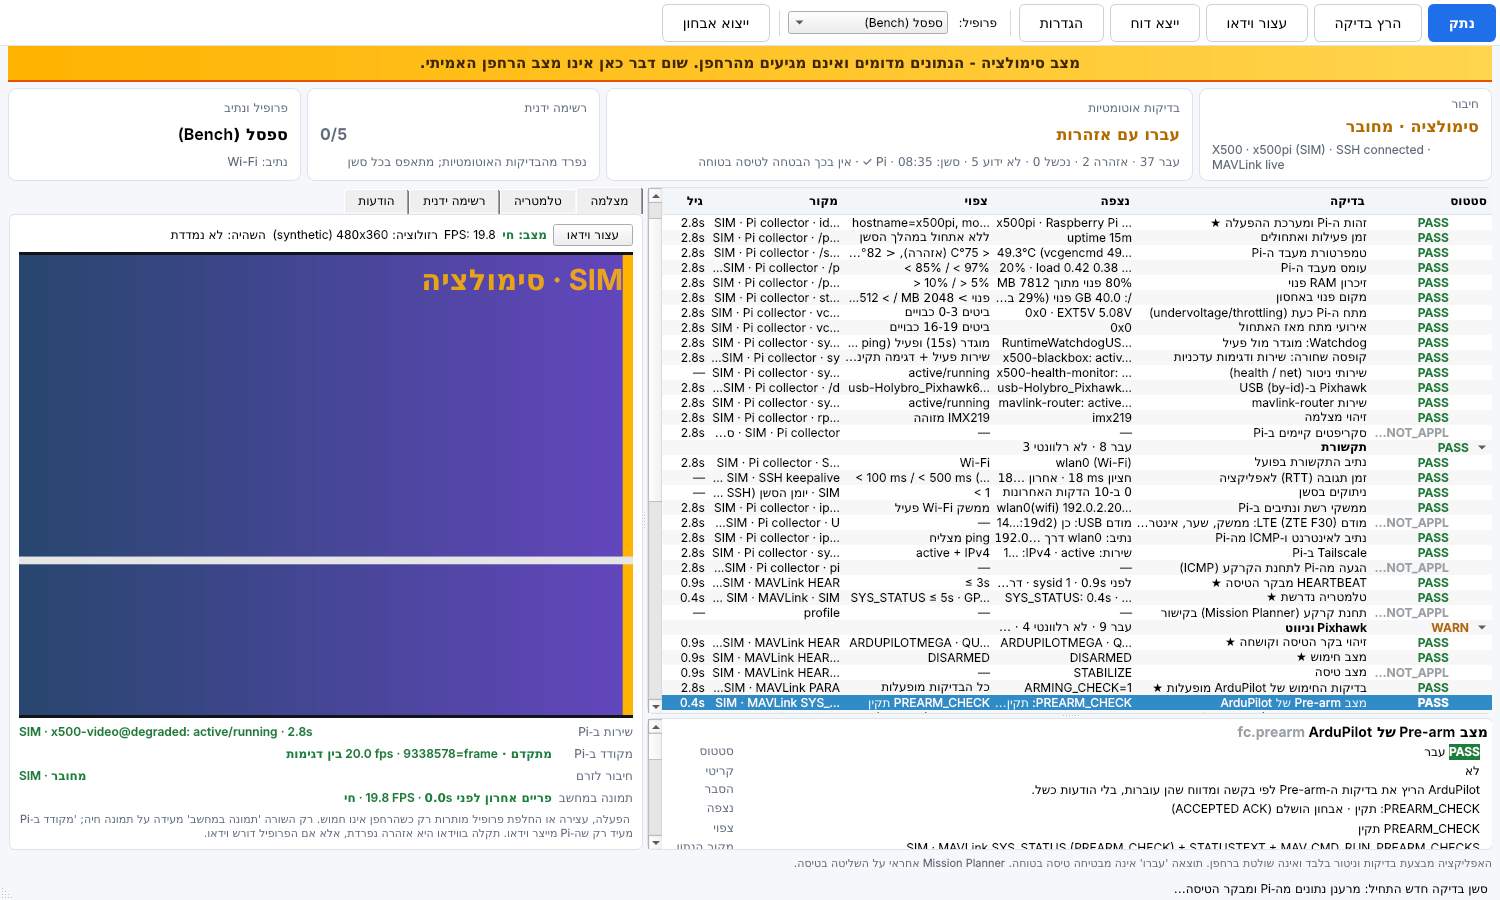
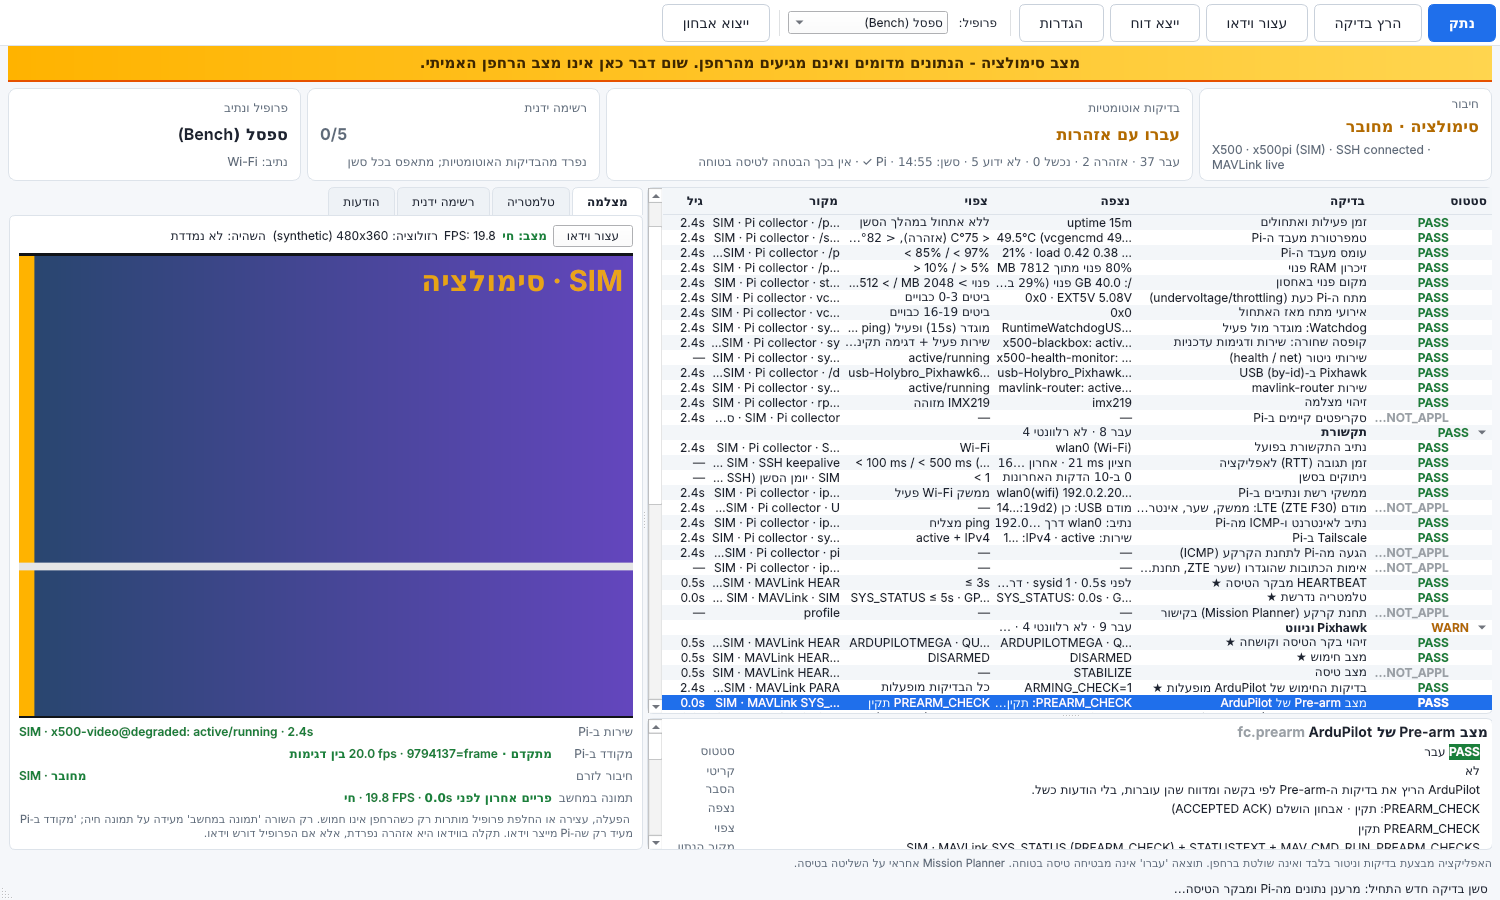
Fix unreadable UI in Windows dark mode: force the app's light theme
On Windows with dark mode, Qt supplied a dark palette (white text) while the
stylesheet paints light backgrounds, so labels, toolbar buttons and settings
were white on white. The app now requests the light color scheme (Qt >= 6.8),
uses the Fusion style and sets an explicit light palette; toolbar buttons and
tabs also get explicit colors. Regression test starts from a dark palette.

Claude-Session: https://claude.ai/code/session_01TazA7QWGPk6DhUBMgWzKHm

diff --git a/src/x500fs/ui/app.py b/src/x500fs/ui/app.py
@@ -6,7 +6,7 @@ import os
 import sys
 
 from PySide6.QtCore import Qt
-from PySide6.QtGui import QFont, QIcon
+from PySide6.QtGui import QColor, QFont, QIcon, QPalette
 from PySide6.QtWidgets import QApplication
 
 from .. import APP_ID, APP_NAME
@@ -18,11 +18,60 @@ def app_icon() -> QIcon | None:
     return QIcon(path) if os.path.exists(path) else None
 
 
+LIGHT_PALETTE = {
+    QPalette.Window: "#f5f7fa",
+    QPalette.WindowText: "#1d2330",
+    QPalette.Base: "#ffffff",
+    QPalette.AlternateBase: "#f3f6f9",
+    QPalette.ToolTipBase: "#ffffe1",
+    QPalette.ToolTipText: "#1d2330",
+    QPalette.PlaceholderText: "#8a94a3",
+    QPalette.Text: "#1d2330",
+    QPalette.Button: "#ffffff",
+    QPalette.ButtonText: "#1d2330",
+    QPalette.BrightText: "#ffffff",
+    QPalette.Light: "#ffffff",
+    QPalette.Midlight: "#e9edf2",
+    QPalette.Mid: "#c9d1db",
+    QPalette.Dark: "#8a94a3",
+    QPalette.Shadow: "#5f6b7a",
+    QPalette.Highlight: "#1f6feb",
+    QPalette.HighlightedText: "#ffffff",
+    QPalette.Link: "#1f6feb",
+    QPalette.LinkVisited: "#6f42c1",
+}
+DISABLED_TEXT = "#9aa0a6"
+
+
+def apply_light_theme(app: QApplication) -> None:
+    """Always use the app's own light theme.
+
+    The stylesheet paints light backgrounds (white cards, toolbar, tables). On
+    Windows in dark mode Qt would otherwise supply a dark palette with white text,
+    which ends up as white text on white backgrounds. So the color scheme, the
+    style (Fusion follows the palette exactly) and the palette are all fixed.
+    """
+    hints = app.styleHints()
+    if hasattr(hints, "setColorScheme"):  # Qt >= 6.8
+        try:
+            hints.setColorScheme(Qt.ColorScheme.Light)
+        except Exception:  # noqa: BLE001 - best effort; the palette below is what matters
+            pass
+    app.setStyle("Fusion")  # resets the palette, so it must come before setPalette
+    pal = QPalette()
+    for role, color in LIGHT_PALETTE.items():
+        pal.setColor(QPalette.All, role, QColor(color))
+    for role in (QPalette.Text, QPalette.WindowText, QPalette.ButtonText):
+        pal.setColor(QPalette.Disabled, role, QColor(DISABLED_TEXT))
+    app.setPalette(pal)
+
+
 def create_application(argv: list[str] | None = None) -> QApplication:
     app = QApplication.instance() or QApplication(argv or sys.argv[:1])
     app.setApplicationName(APP_NAME)
     app.setOrganizationName(APP_ID)
     app.setLayoutDirection(Qt.RightToLeft)
+    apply_light_theme(app)
     if sys.platform == "win32":
         app.setFont(QFont("Segoe UI", 10))
     app.setStyleSheet(APP_QSS)

diff --git a/src/x500fs/ui/style.py b/src/x500fs/ui/style.py
@@ -36,7 +36,8 @@ SIM_COLOR = "#ffb300"
 APP_QSS = """
 QMainWindow, QDialog { background: #f5f7fa; }
 QToolBar { background: #ffffff; border-bottom: 1px solid #dde3ea; spacing: 6px; padding: 4px; }
-QToolButton { font-size: 14px; padding: 8px 14px; border-radius: 6px; border: 1px solid #c9d1db; background: #ffffff; }
+QToolButton { font-size: 14px; padding: 8px 14px; border-radius: 6px; border: 1px solid #c9d1db; background: #ffffff;
+    color: #1d2330; }
 QToolButton:hover { background: #eef3f8; }
 QToolButton:disabled { color: #9aa0a6; background: #f3f5f7; }
 QToolButton#primary { background: #1f6feb; color: white; border-color: #1f6feb; font-weight: 600; }
@@ -47,7 +48,10 @@ QLabel#cardValue { font-size: 16px; font-weight: 700; }
 QTreeWidget, QTableWidget, QTextBrowser { background: #ffffff; border: 1px solid #dde3ea; border-radius: 6px; }
 QHeaderView::section { background: #f3f6f9; border: none; border-bottom: 1px solid #dde3ea; padding: 4px 6px; font-weight: 600; }
 QTabWidget::pane { border: 1px solid #dde3ea; border-radius: 6px; background: #ffffff; }
-QTabBar::tab { padding: 6px 14px; }
+QTabBar::tab { padding: 6px 14px; color: #1d2330; background: #eef2f6; border: 1px solid #dde3ea;
+    border-bottom: none; border-top-left-radius: 6px; border-top-right-radius: 6px; margin-left: 2px; }
+QTabBar::tab:selected { background: #ffffff; font-weight: 600; }
+QTabBar::tab:!selected:hover { background: #e3e9f0; }
 QLabel#simBanner { background: qlineargradient(x1:0, y1:0, x2:1, y2:0, stop:0 #ffb300, stop:1 #ffd54f);
     color: #3e2700; font-size: 15px; font-weight: 700; padding: 8px; border-bottom: 2px solid #e65100; }
 QLabel#errorBanner { background: #fdecea; color: #8e1c1c; padding: 8px; border-bottom: 1px solid #f5c2c0; font-weight: 600; }

diff --git a/tests/test_ui.py b/tests/test_ui.py
@@ -137,3 +137,23 @@ def test_example_local_config_is_importable(tmp_path):
     store = SettingsStore(tmp_path / "cfg")
     plan = local_config.plan(local_config.read(ex), store.load(), store.profiles_dir)
     assert plan.changes and not plan.ignored
+
+
+def test_light_theme_even_when_windows_is_in_dark_mode(app):
+    """Windows dark mode used to give white text on the app's white backgrounds."""
+    from PySide6.QtGui import QColor, QPalette
+
+    from x500fs.ui.app import apply_light_theme
+
+    dark = QPalette()
+    for role in (QPalette.WindowText, QPalette.Text, QPalette.ButtonText):
+        dark.setColor(role, QColor("#ffffff"))
+    for role in (QPalette.Window, QPalette.Base, QPalette.Button):
+        dark.setColor(role, QColor("#202020"))
+    app.setPalette(dark)
+    apply_light_theme(app)
+    pal = app.palette()
+    for role in (QPalette.WindowText, QPalette.Text, QPalette.ButtonText):
+        assert pal.color(role).lightness() < 80, role       # dark text
+    for role in (QPalette.Window, QPalette.Base, QPalette.Button):
+        assert pal.color(role).lightness() > 220, role      # light backgrounds
